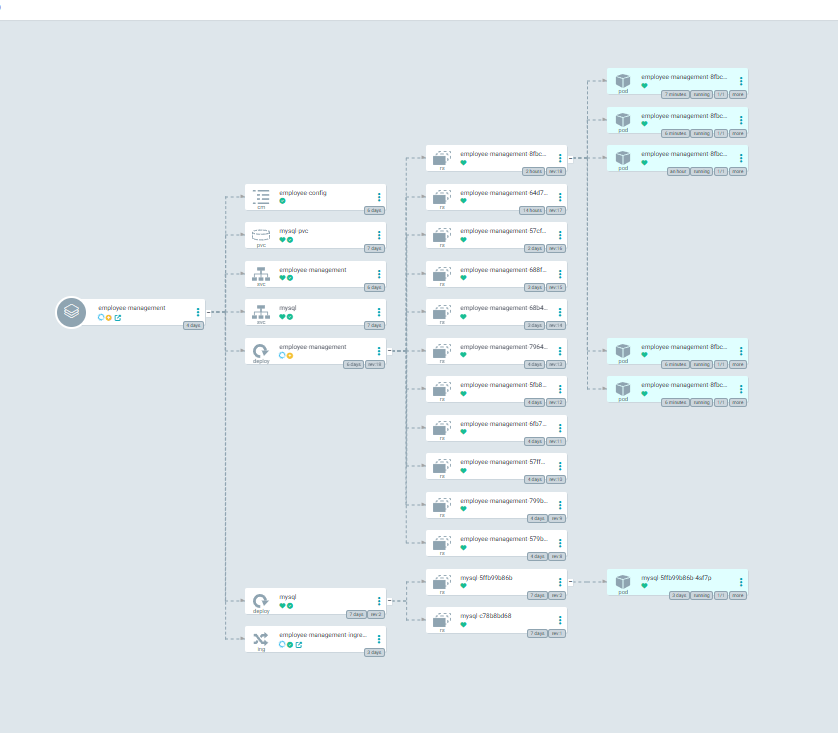
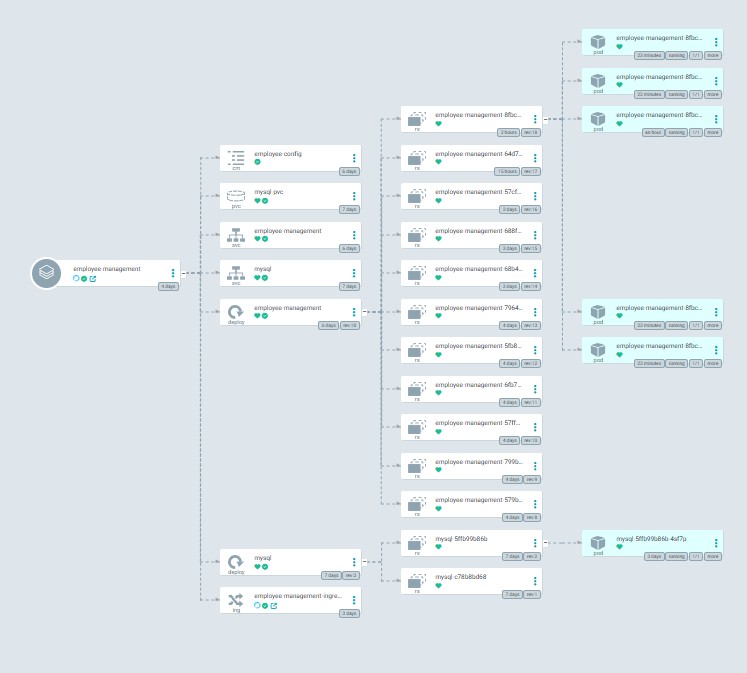
docs: update project structure, CI/CD pipeline documentation, and dashboard screenshots in README

Changed region(s): [[0.0, 0.0, 1.0, 0.9361]]

diff --git a/README.md b/README.md
@@ -37,7 +37,8 @@ A production-style DevOps project demonstrating the deployment and management of
 
 ## Project Structure
 
-devops-employee-management-system
+```text
+devops-employee-management-system/
 ├── app/
 │   └── Spring Boot Application
 ├── docker/
@@ -52,30 +53,25 @@ devops-employee-management-system
 │   └── screenshots/
 ├── .gitlab-ci.yml
 └── README.md
-
+```
 ## Architecture
 
 ![alt text](screenshots/Architecture Diagram.png)
 
+
 ## CI/CD Pipeline
 
-Developer
-   ↓
-GitLab Repository
-   ↓
-Build Stage
-   ↓
-Docker Image Build
-   ↓
-Trivy Security Scan
-   ↓
-Push Image to Docker Hub
-   ↓
-Update Kubernetes Manifests
-   ↓
-ArgoCD Sync
-   ↓
-Kubernetes Deployment
+| Stage | Description |
+|---------|------------|
+| Source | Developer pushes code to GitLab |
+| Build | Maven builds Spring Boot application |
+| Docker Build | Docker image is created |
+| Security Scan | Trivy scans the image |
+| Push Image | Image pushed to Docker Hub |
+| Update Manifests | GitLab updates Kubernetes manifests |
+| GitOps Sync | ArgoCD detects changes |
+| Deploy | Application deployed to Kubernetes |
+```
 
 ![alt text](screenshots/pipeline.png)
 ## Monitoring
@@ -112,10 +108,10 @@ Metrics collected include:
 
 
 ### Grafana Dashboard
+![alt text](screenshots/grafana.png)
+
 ![alt text](screenshots/grafana-alert.png)
 
-### Application
-![Application](docs/screenshots/application.png)
 
 ## Author
 
